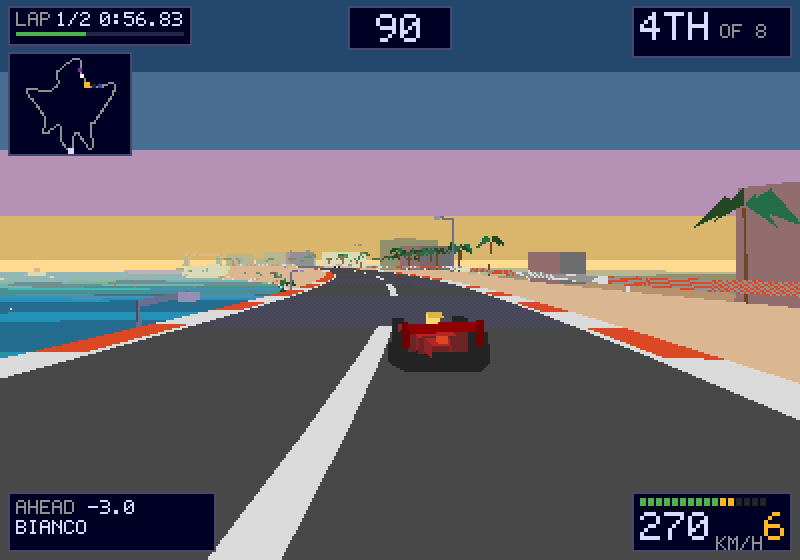
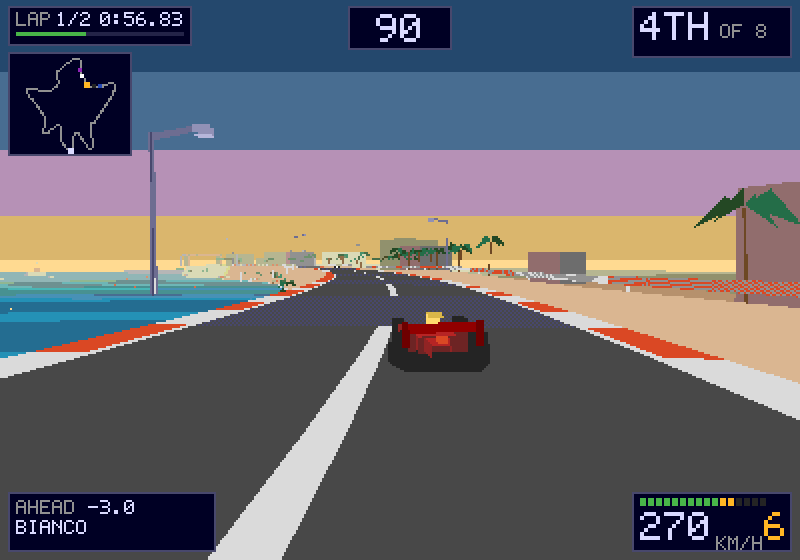
Stand the floodlights on the road, not on whatever is out there
On the boulevard the left-hand verge is the sea: the ground at sixteen metres
from the centreline is at water level, ten metres below the road, so every
mast on that side was standing in the bay with its lamp at wave height.

Props can now be asked to stand at the height of the track rather than on the
terrain, which for anything belonging to the road - a floodlight, a marker
post - is what it should always have been. Both are moved out to the barrier
line and put on the deck.

Claude-Session: https://claude.ai/code/session_01PZ8PyQkJ4DK33cMJsF6sRB

Changed region(s): [[0.1562, 0.2125, 0.2812, 0.5768], [0.5312, 0.3643, 0.5625, 0.3946], [0.3438, 0.4554, 0.375, 0.4857]]

diff --git a/src/render/renderer.js b/src/render/renderer.js
@@ -485,10 +485,16 @@ export class Renderer {
           // gantry is a wall across the road if it is left pointing at world
           // north, and the track only points at world north twice a lap.
           // `lift` is for the things that are not standing on anything.
+          // `flat` stands a prop at the height of the track rather than on
+          // whatever the ground is doing out there. A floodlight beside a
+          // boulevard belongs level with the road; the ground at that distance
+          // on the seaward side is the sea, and a lamp post standing in it is
+          // a lamp post standing in the sea.
+          const foot = prop.flat
+            ? roadY(a, off)
+            : groundY(a, Math.sign(off) || 1, Math.abs(off));
           drawProp(rt, prop,
-            a.x + a.nx * off,
-            groundY(a, Math.sign(off) || 1, Math.abs(off)) + (prop.lift || 0),
-            a.z + a.nz * off,
+            a.x + a.nx * off, foot + (prop.lift || 0), a.z + a.nz * off,
             tint, local, prop.align ? a.a : 0, state.tick, night);
         }
       }

diff --git a/src/game/route.js b/src/game/route.js
@@ -521,8 +521,8 @@ function scatter(nodes, rnd) {
     // it reads a number in the corner. Take them out and the car feels like it
     // has lost fifty km/h.
     if (i % 4 === 0) {
-      add(i, { kind: 'post', side: -1, off: 16.4, s: 1, r: 0, align: true });
-      add(i, { kind: 'post', side: 1, off: 16.4, s: 1, r: 0, align: true });
+      add(i, { kind: 'post', side: -1, off: 16.4, s: 1, r: 0, align: true, flat: true });
+      add(i, { kind: 'post', side: 1, off: 16.4, s: 1, r: 0, align: true, flat: true });
     }
 
     // Floodlights, alternating sides every seventy metres, leaning out over the
@@ -535,7 +535,8 @@ function scatter(nodes, rnd) {
       // the one on the left is turned round - the other way about had both of
       // them leaning out over the scenery.
       add(i, {
-        kind: 'mast', side, off: 17.5, s: 1, r: side < 0 ? Math.PI : 0, align: true,
+        kind: 'mast', side, off: 16.4, s: 1, r: side < 0 ? Math.PI : 0,
+        align: true, flat: true,
       });
     }
 
